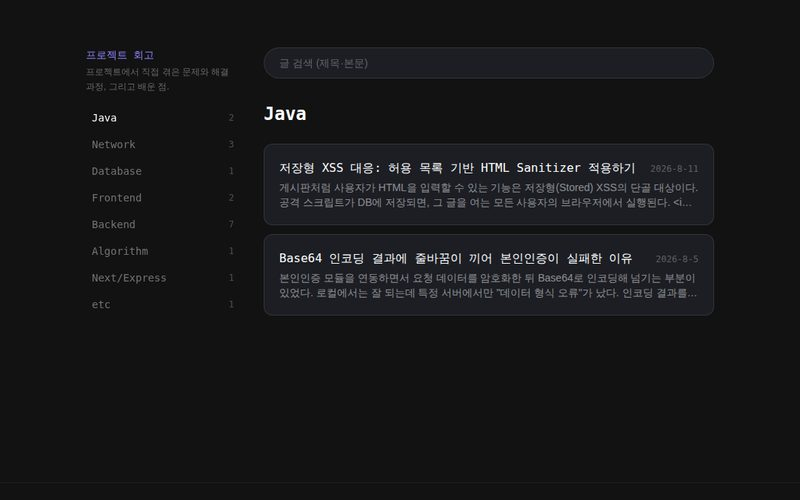
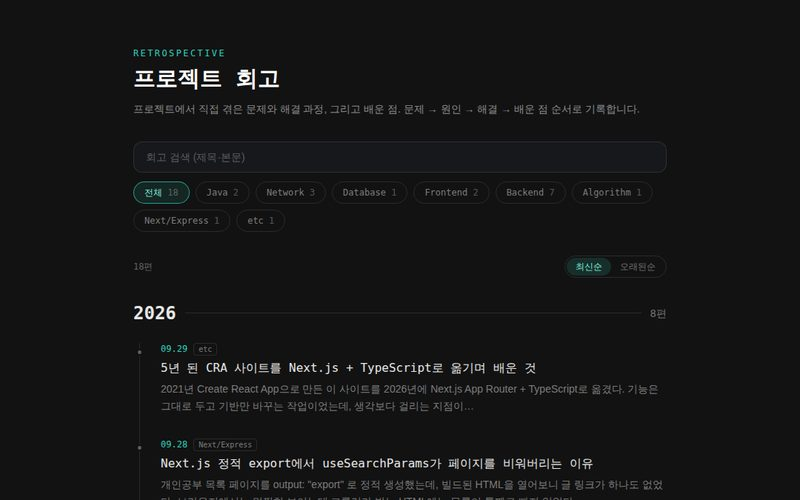
코드정리

diff --git a/src/components/Study/RetroBrowser.tsx b/src/components/Study/RetroBrowser.tsx
@@ -1,0 +1,196 @@
+"use client";
+
+import { useEffect, useMemo, useState } from "react";
+import Link from "next/link";
+import { useRouter } from "next/navigation";
+import {
+  parseStudyDate,
+  postPath,
+  SECTION_META,
+  STUDY_CATEGORIES,
+  type StudyPostListItem,
+} from "@/firestore/studyPosts";
+
+// 프로젝트 회고 목록 — 개인 공부(분류 사이드바 + 카드 목록, 보라)와 구분되게
+// 연도별 타임라인 + 분류 필터 칩, 민트 톤
+const ACCENT = "#2dd4bf";
+const PAGE = 8;
+
+export default function RetroBrowser({ posts }: { posts: StudyPostListItem[] }) {
+  const router = useRouter();
+  const meta = SECTION_META.retro;
+  const categories = STUDY_CATEGORIES.filter((c) => posts.some((p) => p.category === c));
+  const [cat, setCat] = useState<string>("all");
+  const [q, setQ] = useState("");
+  const [order, setOrder] = useState<"desc" | "asc">("desc");
+  const [limit, setLimit] = useState(PAGE);
+
+  useEffect(() => {
+    const fromUrl = new URLSearchParams(window.location.search).get("category");
+    if (!fromUrl || !posts.some((p) => p.category === fromUrl)) return;
+    // eslint-disable-next-line react-hooks/set-state-in-effect -- URL 기반 초기값 동기화(마운트 1회)
+    setCat(fromUrl);
+  }, [posts]);
+
+  const select = (c: string) => {
+    setCat(c);
+    setLimit(PAGE);
+    router.replace(
+      c === "all" ? `${meta.path}/` : `${meta.path}/?category=${encodeURIComponent(c)}`,
+      {
+        scroll: false,
+      }
+    );
+  };
+
+  const terms = q.trim().toLowerCase().split(/\s+/).filter(Boolean);
+  const visible = (p: StudyPostListItem) =>
+    (cat === "all" || p.category === cat) && terms.every((t) => p.searchText.includes(t));
+
+  // 연도별 묶음 (최신순). 크롤러가 모든 링크를 보도록 전부 렌더하고 필터는 hidden으로
+  const ordered = useMemo(() => {
+    const t = (p: StudyPostListItem) => parseStudyDate(p.date)?.getTime() ?? 0;
+    return [...posts].sort((a, b) => (order === "desc" ? t(b) - t(a) : t(a) - t(b)));
+  }, [posts, order]);
+  const years = useMemo(() => {
+    const map = new Map<string, StudyPostListItem[]>();
+    for (const p of ordered) {
+      const y = String(parseStudyDate(p.date)?.getFullYear() ?? "기타");
+      map.set(y, [...(map.get(y) ?? []), p]);
+    }
+    return [...map.entries()];
+  }, [ordered]);
+  // 필터에 맞는 글 중 앞에서부터 limit개만 보여줌 (나머지도 HTML엔 남김)
+  const matched = ordered.filter(visible);
+  const shownIds = new Set(matched.slice(0, limit).map((p) => p.id));
+  const shownCount = matched.length;
+  const rest = shownCount - shownIds.size;
+
+  const chip = (on: boolean) =>
+    `cursor-pointer rounded-full border px-3.5 py-1.5 font-mono text-xs whitespace-nowrap transition-colors ${
+      on
+        ? "border-[#2dd4bf]/70 bg-[#2dd4bf]/10 text-[#7ff0dd]"
+        : "border-white/10 text-white/45 hover:border-white/25 hover:text-white/80"
+    }`;
+
+  return (
+    <div className="mx-auto max-w-3xl px-6 pt-16 pb-24">
+      <div className="font-mono text-xs tracking-[0.2em] uppercase" style={{ color: ACCENT }}>
+        retrospective
+      </div>
+      <h1 className="mt-2 font-mono text-2xl font-bold text-white sm:text-3xl">{meta.label}</h1>
+      <p className="mt-3 font-['Nanum_Gothic',sans-serif] text-sm leading-relaxed text-white/50">
+        {meta.desc} 문제 → 원인 → 해결 → 배운 점 순서로 기록합니다.
+      </p>
+
+      <div className="mt-8 flex flex-col gap-3">
+        <input
+          type="text"
+          inputMode="search"
+          value={q}
+          onChange={(e) => {
+            setQ(e.target.value);
+            setLimit(PAGE);
+          }}
+          onKeyDown={(e) => e.key === "Escape" && setQ("")}
+          placeholder="회고 검색 (제목·본문)"
+          aria-label="프로젝트 회고 검색"
+          className="w-full rounded-xl border border-white/10 bg-[#16181c] px-4 py-2.5 font-['Nanum_Gothic',sans-serif] text-sm text-white placeholder:text-white/30 focus:border-[#2dd4bf]/50 focus:outline-none"
+        />
+        <div className="flex flex-wrap gap-2">
+          <button type="button" onClick={() => select("all")} className={chip(cat === "all")}>
+            전체 <span className="text-white/30">{posts.length}</span>
+          </button>
+          {categories.map((c) => (
+            <button key={c} type="button" onClick={() => select(c)} className={chip(cat === c)}>
+              {c}{" "}
+              <span className="text-white/30">{posts.filter((p) => p.category === c).length}</span>
+            </button>
+          ))}
+        </div>
+      </div>
+
+      <div className="mt-8 flex items-center justify-between font-mono text-xs text-white/35">
+        <span>{shownCount}편</span>
+        <div className="flex rounded-full border border-white/10 p-0.5">
+          {(["desc", "asc"] as const).map((o) => (
+            <button
+              key={o}
+              type="button"
+              onClick={() => setOrder(o)}
+              className={`cursor-pointer rounded-full px-3 py-1 transition-colors ${
+                order === o ? "bg-[#2dd4bf]/15 text-[#7ff0dd]" : "text-white/40 hover:text-white/70"
+              }`}
+            >
+              {o === "desc" ? "최신순" : "오래된순"}
+            </button>
+          ))}
+        </div>
+      </div>
+
+      {shownCount === 0 && (
+        <p className="mt-12 font-['Nanum_Gothic',sans-serif] text-white/45">
+          {posts.length === 0 ? "아직 글이 없습니다." : "조건에 맞는 회고가 없습니다."}
+        </p>
+      )}
+
+      <div className="mt-8 flex flex-col gap-14">
+        {years.map(([year, list]) => {
+          const shown = list.filter((p) => shownIds.has(p.id));
+          return (
+            <section key={year} hidden={shown.length === 0}>
+              <h2 className="mb-6 flex items-center gap-3 font-mono text-sm text-white/40">
+                <span className="text-2xl font-bold text-white/90">{year}</span>
+                <span className="h-px flex-1 bg-white/10" />
+                <span>{shown.length}편</span>
+              </h2>
+              <ol className="relative ml-2 border-l border-white/10">
+                {list.map((p) => {
+                  const d = parseStudyDate(p.date);
+                  const md = d
+                    ? `${String(d.getMonth() + 1).padStart(2, "0")}.${String(d.getDate()).padStart(2, "0")}`
+                    : "";
+                  return (
+                    <li
+                      key={p.id}
+                      hidden={!shownIds.has(p.id)}
+                      className="group relative pb-8 pl-7 last:pb-0"
+                    >
+                      <span className="absolute top-2 -left-[5px] h-[9px] w-[9px] rounded-full border-2 border-[#121212] bg-white/30 transition-all duration-300 group-hover:scale-150 group-hover:bg-[#2dd4bf]" />
+                      <Link href={postPath(p)} className="block">
+                        <div className="flex items-center gap-2 font-mono text-xs">
+                          <span style={{ color: ACCENT }}>{md}</span>
+                          <span className="rounded border border-white/10 px-1.5 py-px text-[10px] text-white/45">
+                            {p.category}
+                          </span>
+                        </div>
+                        <h3 className="mt-1.5 font-mono text-[15px] leading-snug font-medium text-white/90 transition-colors group-hover:text-[#7ff0dd] sm:text-base">
+                          {p.title}
+                        </h3>
+                        {p.excerpt && (
+                          <p className="mt-1.5 line-clamp-2 font-['Nanum_Gothic',sans-serif] text-sm leading-relaxed text-white/45">
+                            {p.excerpt}
+                          </p>
+                        )}
+                      </Link>
+                    </li>
+                  );
+                })}
+              </ol>
+            </section>
+          );
+        })}
+      </div>
+
+      {rest > 0 && (
+        <button
+          type="button"
+          onClick={() => setLimit((l) => l + PAGE)}
+          className="mt-10 w-full cursor-pointer rounded-xl border border-white/10 py-3 font-mono text-sm text-white/60 transition-colors hover:border-[#2dd4bf]/50 hover:text-[#7ff0dd]"
+        >
+          더보기 <span className="text-white/30">+{Math.min(rest, PAGE)}</span>
+        </button>
+      )}
+    </div>
+  );
+}

diff --git a/src/components/Study/postRoute.tsx b/src/components/Study/postRoute.tsx
@@ -3,6 +3,7 @@ import Link from "next/link";
 import { notFound } from "next/navigation";
 import Faded from "@/components/Faded";
 import StudyBrowser from "@/components/Study/StudyBrowser";
+import RetroBrowser from "@/components/Study/RetroBrowser";
 import StudyPostActions from "@/components/Study/StudyPostActions";
 import {
   getSectionPosts,
@@ -25,7 +26,11 @@ export function makeListPage(section: StudySection) {
   const metadata = pageMeta({ title: meta.label, description: meta.desc, path: `${meta.path}/` });
   async function Page() {
     const posts = (await getSectionPosts(section)).map(toListItem);
-    return <StudyBrowser posts={posts} section={section} />;
+    return section === "retro" ? (
+      <RetroBrowser posts={posts} />
+    ) : (
+      <StudyBrowser posts={posts} section={section} />
+    );
   }
   return { metadata, Page };
 }
@@ -91,16 +96,30 @@ export function makePostPage(section: StudySection) {
           type="application/ld+json"
           dangerouslySetInnerHTML={{ __html: JSON.stringify(jsonLd) }}
         />
-        <article className="mx-auto max-w-3xl px-6 pt-16 pb-24">
+        <article
+          className={`mx-auto max-w-3xl px-6 pt-16 pb-24 ${section === "retro" ? "retro-post" : ""}`}
+        >
           <Link
             href={`${meta.path}/?category=${encodeURIComponent(post.category)}`}
-            className="mb-6 inline-block font-mono text-sm text-white/40 transition-colors hover:text-white"
+            className="mb-6 block w-fit font-mono text-sm text-white/40 transition-colors hover:text-white"
           >
             ← {meta.label} · {post.category}
           </Link>
+          {/* 개인 공부(교재, 보라) / 회고(기록, 민트) 구분 배지 */}
+          <div
+            className={`mb-3 inline-flex rounded-full border px-2.5 py-0.5 font-mono text-[11px] ${
+              section === "retro"
+                ? "border-[#2dd4bf]/40 bg-[#2dd4bf]/10 text-[#7ff0dd]"
+                : "border-[#6C63FF]/40 bg-[#6C63FF]/10 text-[#A9A3FF]"
+            }`}
+          >
+            {section === "retro" ? "RETROSPECTIVE · 회고" : "STUDY NOTE · 개념 정리"}
+          </div>
           <h1 className="font-mono text-2xl font-bold text-white sm:text-3xl">{post.title}</h1>
           <div className="mt-3 flex gap-3 font-mono text-xs text-white/40">
-            <span className="text-[#8B84FF]">{post.category}</span>
+            <span className={section === "retro" ? "text-[#2dd4bf]" : "text-[#8B84FF]"}>
+              {post.category}
+            </span>
             <time dateTime={published}>{post.date}</time>
           </div>
           <div

diff --git a/src/css/Page/study.css b/src/css/Page/study.css
@@ -186,3 +186,25 @@
 .quill-dark .ql-picker-options {
   background: #1c1e24;
 }
+
+/* 프로젝트 회고 본문: 개인 공부(보라)와 구분되게 민트 톤 */
+.retro-post .quill-content h2 {
+  border-bottom-color: rgba(45, 212, 191, 0.18);
+}
+.retro-post .quill-content h2::before {
+  content: "# ";
+  color: #2dd4bf;
+}
+.retro-post .quill-content blockquote {
+  border-left-color: #2dd4bf;
+  background: rgba(45, 212, 191, 0.07);
+}
+.retro-post .quill-content code {
+  background: rgba(45, 212, 191, 0.12);
+}
+.retro-post .quill-content a {
+  color: #5eead4;
+}
+.retro-post .quill-content li > .ql-ui::before {
+  color: #2dd4bf;
+}

diff --git a/src/components/Main/MainLanding.tsx b/src/components/Main/MainLanding.tsx
@@ -19,11 +19,12 @@ const STACK = [
   "Firebase",
 ];
 
+// 상단 nav의 4개 메뉴와 같게
 const LINKS = [
-  { href: "/about/", label: "About", desc: "일하는 방식과 걸어온 길" },
   { href: "/works/", label: "Project", desc: "프로젝트 · 공부 · 회고" },
   { href: "/games/", label: "Games", desc: "직접 만든 브라우저 게임" },
-  { href: "/archive/", label: "Archive", desc: "작업 기록 타임라인" },
+  { href: "/tools/", label: "Tools", desc: "일상 도구" },
+  { href: "/devtools/", label: "DevTools", desc: "개발 편의 도구" },
 ];
 
 const GREETING = "hello, world";
